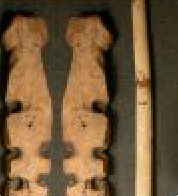
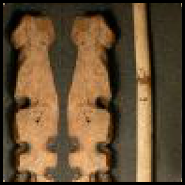
New ASSETS! - Scaling also taken away from parameters as new items have the same resolution

diff --git a/src/Level1.js b/src/Level1.js
@@ -11,7 +11,7 @@ function Mummy(index, game, x, y, frame, tweenspeed, tweenx){
     this.mummyTween = game.add.tween(this.mummy).to({x: tweenx}, tweenspeed,  'Linear', true, 0, 100, true); //{x:425} is it's x location destingation. No need to do Y because starting position places it on platform.
 }
 
-function Item(index, game, x, y, text, textHeightAdjust, image, imgheight,imgscaleX, imgscaleY){
+function Item(index, game, x, y, text, textHeightAdjust, image, imgheight){
   this.item = game.add.sprite(x, y, 'item', 0);
   this.item.anchor.setTo(0.5, 0.5);
   this.item.name = index.toString(); //assign names to each new item created
@@ -24,7 +24,7 @@ function Item(index, game, x, y, text, textHeightAdjust, image, imgheight,imgsca
   this.item.popup.anchor.setTo(0.5, 0.5);
   this.item.popup.fixedToCamera = true;
   this.item.popup.visible = false;
-  this.item.info = game.add.text((game.camera.width / 2) - 150, (game.camera.height / 2) - 100, text, {fontSize: '22px', fill: '#fff'});
+  this.item.info = game.add.text((game.camera.width / 2) - 150, (game.camera.height / 2) - 100, text, {fontSize: '22px', fill: '#fff', align: 'center'});
   this.item.info.visible = false;
   this.item.info.anchor.setTo(0, textHeightAdjust);
   this.item.info.fixedToCamera = true;
@@ -39,7 +39,7 @@ function Item(index, game, x, y, text, textHeightAdjust, image, imgheight,imgsca
   this.item.image = game.add.sprite(game.camera.width / 2, (game.camera.height / 2) - imgheight, image);
   this.item.image.anchor.setTo(0.5, 0.5);
   this.item.image.fixedToCamera = true;
-  this.item.image.scale.setTo(imgscaleX,imgscaleY)
+  this.item.image.scale.setTo(0.6, 0.55)
   this.item.image.visible = false;
 }
 
@@ -90,7 +90,7 @@ Game.Level1.prototype = {
     player.body.collideWorldBounds = true;
 
 
-    lvl2button = game.add.button(game.camera.width / 2, game.camera.height / 2, 'popupbutton', function() {game.state.start('Level1');}, this)
+    lvl2button = game.add.button(game.camera.width / 2, game.camera.height / 2, 'popupbutton', function() {game.state.start('Level2');}, this)
     lvl2button.visible = false;
     lvl2button.anchor.setTo(0.5, 0.5);
     lvl2button.fixedToCamera = true;
@@ -103,9 +103,9 @@ Game.Level1.prototype = {
 
     mummy1 = new Mummy(0, game, 550, 380, 3, 1000, 340); //Mummy's starting position.
 
-    item1 = new Item(0, game, 500, 570, "\n                 BOTTLE \n \n \n \n \n This fancy bottle allowed \n the owner to drink in the \n afterlife. Having it in the \n tomb, even when empty, \n guarantees an ever-lasting \n supply of drink.", 0.35, 'bottle', 110, 0.6, 0.55); //image, height, scalex, scaley
-    item2 = new Item(0, game, 1050, 200, "\n               FIRE STICK \n \n \n \n \n This 'fire stick' was rotated \n at speed against this piece \n of wood to create enough \n friction to light a fire. \n This provided fire and \n warmth for cooking in the \n afterlife.", 0.35, 'firestick', 117, 0.6, 0.55);
-    item3 = new Item(0, game, 302, 100, "\n              GOLD MASK \n \n \n \n \n This mask would be placed \n over the head of a mummy \n to protect it. The feather \n pattern may represent the \n protective wings of the  \n goddess Isis or the bird- \n like spirit of the dead 'Ba'.", 0.35, 'goldmask', 120, 0.6, 0.55);
+    item1 = new Item(0, game, 500, 570, "\n  BOTTLE \n \n \n \n \n This fancy bottle allowed \n the owner to drink in the \n afterlife. Having it in the \n tomb, even when empty, \n guarantees an ever-lasting \n supply of drink.", 0.35, 'bottle', 110); //image, height, scalex, scaley
+    item2 = new Item(0, game, 1050, 200, "\n  FIRE STICK \n \n \n \n \n This 'fire stick' was rotated \n at speed against this piece \n of wood to create enough \n friction to light a fire. \n This provided fire and \n warmth for cooking in the \n afterlife.", 0.35, 'firestick', 117);
+    item3 = new Item(0, game, 302, 100, "\n  GOLD MASK \n \n \n \n \n This mask would be placed \n over the head of a mummy \n to protect it. The feather \n pattern may represent the \n protective wings of the  \n goddess Isis or the bird- \n like spirit of the dead 'Ba'.", 0.35, 'goldmask', 120);
 
 
   },
@@ -204,10 +204,6 @@ Game.Level1.prototype = {
   },
 
 
-}
-
-function actionOnClick(){
-  this.game.state.start('Level1');
 }
 
 function checkOverlap(spriteA, spriteB){

diff --git a/src/Level2.js b/src/Level2.js
@@ -32,7 +32,7 @@ Game.Level2.prototype = {
 
     map.setCollisionBetween(1, 100, true, 'Platforms');
 
-    counter = this.add.text(16, 16, 'Items Left: 3', {fontSize: '32px', fill: '#000'});
+    counter = this.add.text(16, 16, 'Items -- Left: 3', {fontSize: '32px', fill: '#000'});
     counter.fixedToCamera = true;
     itemsLeft = 3;
 
@@ -50,7 +50,7 @@ Game.Level2.prototype = {
     lvl2button.visible = false;
     lvl2button.anchor.setTo(0.5, 0.5);
     lvl2button.fixedToCamera = true;
-    lvl2buttontext = game.add.text(game.camera.width / 2, (game.camera.height / 2), "Next Level", {fontSize: '22px', fill: '#fff'});
+    lvl2buttontext = game.add.text(game.camera.width / 2, (game.camera.height / 2), "Next Level", {fontSize: '19px', fill: '#fff'});
     lvl2buttontext.visible = false;
     lvl2buttontext.anchor.setTo(0.5, 0.40);
     lvl2buttontext.fixedToCamera = true;
@@ -59,9 +59,9 @@ Game.Level2.prototype = {
 
     mummy1 = new Mummy(0, game, 550, 380, 3, 1000, 340); //Mummy's starting position.
 
-    item1 = new Item(0, game, 500, 570, "\n                 BOTTLE \n \n \n \n \n This fancy bottle allowed \n the owner to drink in the \n afterlife. Having it in the \n tomb, even when empty, \n guarantees an ever-lasting \n supply of drink.", 0.35, 'bottle', 110, 0.6, 0.55); //image, height, scalex, scaley
-    item2 = new Item(0, game, 1050, 200, "\n               FIRE STICK \n \n \n \n \n This 'fire stick' was rotated \n at speed against this piece \n of wood to create enough \n friction to light a fire. \n This provided fire and \n warmth for cooking in the \n afterlife.", 0.35, 'firestick', 117, 0.6, 0.55);
-    item3 = new Item(0, game, 302, 100, "\n              GOLD MASK \n \n \n \n \n This mask would be placed \n over the head of a mummy \n to protect it. The feather \n pattern may represent the \n protective wings of the  \n goddess Isis or the bird- \n like spirit of the dead 'Ba'.", 0.35, 'goldmask', 120, 0.6, 0.55);
+    item1 = new Item(0, game, 500, 570, "\n  BOTTLE \n \n \n \n \n This fancy bottle allowed \n the owner to drink in the \n afterlife. Having it in the \n tomb, even when empty, \n guarantees an ever-lasting \n supply of drink.", 0.35, 'bottle', 110, 0.6, 0.55); //image, height, scalex, scaley
+    item2 = new Item(0, game, 1050, 200, "\n  FIRE STICK \n \n \n \n \n This 'fire stick' was rotated \n at speed against this piece \n of wood to create enough \n friction to light a fire. \n This provided fire and \n warmth for cooking in the \n afterlife.", 0.35, 'firestick', 117, 0.6, 0.55);
+    item3 = new Item(0, game, 302, 100, "\n  GOLD MASK \n \n \n \n \n This mask would be placed \n over the head of a mummy \n to protect it. The feather \n pattern may represent the \n protective wings of the  \n goddess Isis or the bird- \n like spirit of the dead 'Ba'.", 0.35, 'goldmask', 120, 0.6, 0.55);
 
 
   },
